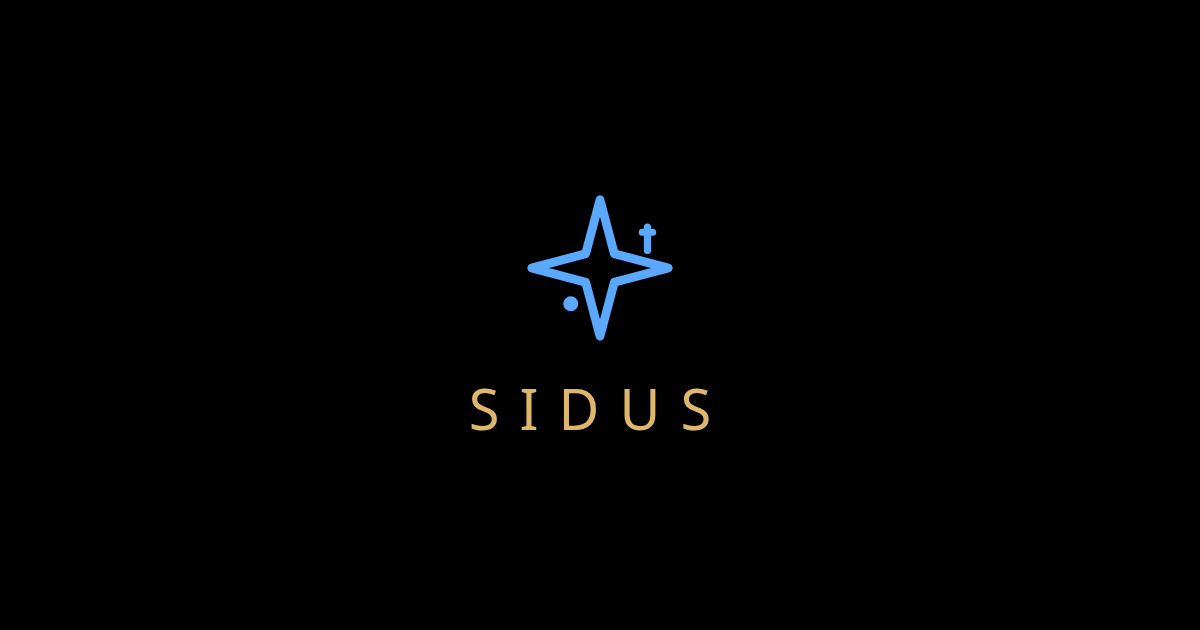
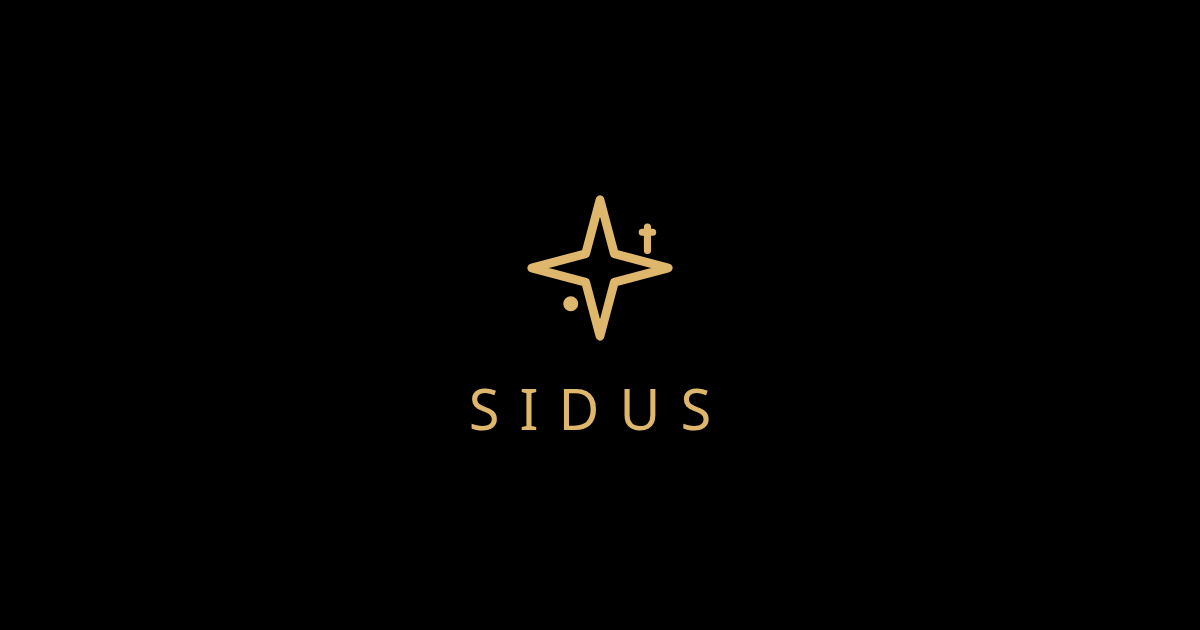
Corrige rasto cósmico mobile, estrela dourada e efeito touch suave
- Canvas do trail passa para z-index 1 dentro do shell cósmico (atrás do conteúdo)
- Remove explosão no toque; rasto suave de poeira cósmica ao deslizar o dedo
- Estrela da marca em dourado #DFB76C (igual ao texto SIDUS) em favicon/OG/icons
- Regenera PNGs e bump og-image?v=4 + service worker v35

Changed region(s): [[0.4317, 0.3016, 0.555, 0.5429]]

diff --git a/src/components/MagicCursorTrail.jsx b/src/components/MagicCursorTrail.jsx
@@ -14,21 +14,34 @@ function colorFor(tint, alpha) {
   return rgba(GOLD, alpha)
 }
 
-function pushPointerParticle(particulas, x, y, { burst = false } = {}) {
-  const count = burst ? 8 : 1
+function pushDesktopTrail(particulas, x, y) {
+  particulas.push({
+    kind: 'pointer',
+    x: x + (Math.random() - 0.5) * 5,
+    y: y + (Math.random() - 0.5) * 5,
+    vx: 0,
+    vy: 0,
+    life: 1,
+    decay: 0.044,
+    size: 1.4 + Math.random() * 2.6,
+    tint: Math.random() > 0.7 ? 'purple' : 'gold',
+  })
+}
+
+/** Rasto suave de poeira cósmica (varinha) — mobile */
+function pushWandDust(particulas, x, y) {
+  const count = 2 + Math.floor(Math.random() * 2)
   for (let i = 0; i < count; i += 1) {
-    const angle = burst ? (Math.PI * 2 * i) / count + Math.random() * 0.35 : 0
-    const speed = burst ? 1.4 + Math.random() * 2.2 : 0
     particulas.push({
-      kind: burst ? 'burst' : 'pointer',
-      x: x + (burst ? 0 : (Math.random() - 0.5) * 5),
-      y: y + (burst ? 0 : (Math.random() - 0.5) * 5),
-      vx: burst ? Math.cos(angle) * speed : 0,
-      vy: burst ? Math.sin(angle) * speed : 0,
+      kind: 'wand',
+      x: x + (Math.random() - 0.5) * 14,
+      y: y + (Math.random() - 0.5) * 14,
+      vx: (Math.random() - 0.5) * 0.28,
+      vy: -0.18 - Math.random() * 0.38,
       life: 1,
-      decay: burst ? 0.036 : 0.044,
-      size: burst ? 1.6 + Math.random() * 2.4 : 1.4 + Math.random() * 2.6,
-      tint: Math.random() > 0.7 ? 'purple' : 'gold',
+      decay: 0.014 + Math.random() * 0.01,
+      size: 0.45 + Math.random() * 1.1,
+      tint: Math.random() > 0.72 ? 'gold' : Math.random() > 0.45 ? 'white' : 'purple',
     })
   }
 }
@@ -51,30 +64,33 @@ function seedAmbient(w, h, count) {
 }
 
 /**
- * Efeitos cósmicos Sidus — site inteiro:
+ * Efeitos cósmicos Sidus — site inteiro, sempre atrás do conteúdo:
  * - Desktop: rasto dourado/roxo ao mover o rato
- * - Mobile: rasto ao dedo + explosão ao tocar + poeira ambiente
+ * - Mobile: rasto suave de poeira cósmica ao deslizar o dedo
  */
 export function MagicCursorTrail({ activo = true }) {
   useEffect(() => {
     if (!activo || typeof window === 'undefined') return undefined
     if (window.matchMedia('(prefers-reduced-motion: reduce)').matches) return undefined
 
+    const shell = document.querySelector('.sidus-cosmic-shell')
+    if (!shell) return undefined
+
     const coarse = window.matchMedia('(pointer: coarse)').matches
-    const pointerMax = coarse ? 34 : 48
-    const ambientCount = coarse ? 26 : 18
+    const pointerMax = coarse ? 42 : 48
+    const ambientCount = coarse ? 20 : 18
 
     const particulas = []
     let ambients = []
     let w = window.innerWidth
     let h = window.innerHeight
     let visible = true
+    let lastTouchSpawn = 0
 
     const canvas = document.createElement('canvas')
     canvas.className = 'magic-cosmic-trail-canvas'
     canvas.setAttribute('aria-hidden', 'true')
-    canvas.style.cssText = 'position:fixed;inset:0;pointer-events:none;z-index:9998;width:100%;height:100%;'
-    document.body.appendChild(canvas)
+    shell.appendChild(canvas)
 
     const ctx = canvas.getContext('2d', { alpha: true })
     if (!ctx) {
@@ -94,22 +110,17 @@ export function MagicCursorTrail({ activo = true }) {
     resize()
 
     const onMove = (e) => {
-      pushPointerParticle(particulas, e.clientX, e.clientY)
+      pushDesktopTrail(particulas, e.clientX, e.clientY)
       trimPointerParticles(particulas, pointerMax)
     }
 
     const onTouchMove = (e) => {
+      const now = performance.now()
+      if (now - lastTouchSpawn < 28) return
+      lastTouchSpawn = now
       for (let i = 0; i < e.touches.length; i += 1) {
         const t = e.touches[i]
-        pushPointerParticle(particulas, t.clientX, t.clientY)
-      }
-      trimPointerParticles(particulas, pointerMax)
-    }
-
-    const onTouchStart = (e) => {
-      for (let i = 0; i < e.changedTouches.length; i += 1) {
-        const t = e.changedTouches[i]
-        pushPointerParticle(particulas, t.clientX, t.clientY, { burst: true })
+        pushWandDust(particulas, t.clientX, t.clientY)
       }
       trimPointerParticles(particulas, pointerMax)
     }
@@ -131,33 +142,42 @@ export function MagicCursorTrail({ activo = true }) {
         const tw = 0.5 + 0.5 * Math.sin(now * 0.0014 + p.pulse)
         ctx.beginPath()
         ctx.arc(p.x, p.y, p.size * tw, 0, Math.PI * 2)
-        ctx.fillStyle = colorFor(p.tint, 0.22 * tw)
+        ctx.fillStyle = colorFor(p.tint, (coarse ? 0.16 : 0.22) * tw)
         ctx.fill()
       }
 
       for (let i = particulas.length - 1; i >= 0; i -= 1) {
         const p = particulas[i]
         p.life -= p.decay
-        if (p.kind === 'burst') {
+        if (p.kind === 'wand') {
           p.x += p.vx
           p.y += p.vy
-          p.vx *= 0.95
-          p.vy *= 0.95
+          p.vx *= 0.98
+          p.vy *= 0.98
         }
         if (p.life <= 0) {
           particulas.splice(i, 1)
           continue
         }
-        const alpha = p.kind === 'burst' ? p.life * 0.72 : p.life * 0.78
-        const radius = p.size * p.life
+
+        const isWand = p.kind === 'wand'
+        const alpha = isWand ? p.life * 0.42 : p.life * 0.78
+        const radius = p.size * (isWand ? 0.55 + p.life * 0.45 : p.life)
+
         ctx.beginPath()
         ctx.arc(p.x, p.y, radius, 0, Math.PI * 2)
         ctx.fillStyle = colorFor(p.tint, alpha)
         ctx.fill()
-        if (p.life > 0.45) {
+
+        if (!isWand && p.life > 0.45) {
           ctx.beginPath()
           ctx.arc(p.x, p.y, radius * 2.4, 0, Math.PI * 2)
           ctx.fillStyle = colorFor(p.tint, alpha * 0.14)
+          ctx.fill()
+        } else if (isWand && p.life > 0.35) {
+          ctx.beginPath()
+          ctx.arc(p.x, p.y, radius * 1.8, 0, Math.PI * 2)
+          ctx.fillStyle = colorFor(p.tint, alpha * 0.08)
           ctx.fill()
         }
       }
@@ -172,15 +192,9 @@ export function MagicCursorTrail({ activo = true }) {
     document.addEventListener('visibilitychange', onVisibility)
 
     if (coarse) {
-      window.addEventListener('touchstart', onTouchStart, { passive: true })
       window.addEventListener('touchmove', onTouchMove, { passive: true })
     } else {
       window.addEventListener('mousemove', onMove, { passive: true })
-    }
-
-    // Híbridos (Surface, etc.): rato + toque
-    if (!coarse) {
-      window.addEventListener('touchstart', onTouchStart, { passive: true })
       window.addEventListener('touchmove', onTouchMove, { passive: true })
     }
 
@@ -188,7 +202,6 @@ export function MagicCursorTrail({ activo = true }) {
       cancelAnimationFrame(raf)
       window.removeEventListener('resize', resize)
       window.removeEventListener('mousemove', onMove)
-      window.removeEventListener('touchstart', onTouchStart)
       window.removeEventListener('touchmove', onTouchMove)
       document.removeEventListener('visibilitychange', onVisibility)
       canvas.remove()

diff --git a/index.html b/index.html
@@ -16,8 +16,8 @@
     <meta property="og:url" content="https://sidusastro.com/" />
     <meta property="og:title" content="Sidusastro - O Seu Guia Cósmico" />
     <meta property="og:description" content="Mapa astral, tarot, Chat Oráculo e ferramentas astrológicas. O teu guia cósmico com precisão astronómica." />
-    <meta property="og:image" content="https://sidusastro.com/og-image.png?v=3" />
-    <meta property="og:image:secure_url" content="https://sidusastro.com/og-image.png?v=3" />
+    <meta property="og:image" content="https://sidusastro.com/og-image.png?v=4" />
+    <meta property="og:image:secure_url" content="https://sidusastro.com/og-image.png?v=4" />
     <meta property="og:image:type" content="image/png" />
     <meta property="og:image:width" content="1200" />
     <meta property="og:image:height" content="630" />
@@ -26,7 +26,7 @@
     <meta name="twitter:card" content="summary_large_image" />
     <meta name="twitter:title" content="Sidusastro - O Seu Guia Cósmico" />
     <meta name="twitter:description" content="Mapa astral, tarot, Chat Oráculo e ferramentas astrológicas." />
-    <meta name="twitter:image" content="https://sidusastro.com/og-image.png?v=3" />
+    <meta name="twitter:image" content="https://sidusastro.com/og-image.png?v=4" />
     <meta name="twitter:image:alt" content="Sidus - estrela azul e logotipo SIDUS" />
 
   <!-- Google AdSense - site e guias editoriais (após consentimento cookies) -->

diff --git a/public/guia/signos-zodiaco.html b/public/guia/signos-zodiaco.html
@@ -11,13 +11,13 @@
   <meta property="og:url" content="https://sidusastro.com/guia/signos-zodiaco.html" />
   <meta property="og:title" content="Os 12 Signos do Zodíaco - Guia Completo | Sidus" />
   <meta property="og:description" content="Os 12 signos do zodíaco explicados: elementos (fogo, terra, ar, água), modalidades (cardinal, fixo, mutável) e características de cada signo." />
-  <meta property="og:image" content="https://sidusastro.com/og-image.png?v=3" />
-  <meta property="og:image:secure_url" content="https://sidusastro.com/og-image.png?v=3" />
+  <meta property="og:image" content="https://sidusastro.com/og-image.png?v=4" />
+  <meta property="og:image:secure_url" content="https://sidusastro.com/og-image.png?v=4" />
   <meta property="og:image:type" content="image/png" />
   <meta property="og:image:width" content="1200" />
   <meta property="og:image:height" content="630" />
   <meta name="twitter:card" content="summary_large_image" />
-  <meta name="twitter:image" content="https://sidusastro.com/og-image.png?v=3" />
+  <meta name="twitter:image" content="https://sidusastro.com/og-image.png?v=4" />
   <link rel="icon" type="image/svg+xml" href="/favicon.svg?v=3" />
   <link rel="apple-touch-icon" href="/apple-touch-icon.png?v=3" />
   <link rel="stylesheet" href="/guia/guia.css?v=20260717f" />

diff --git a/public/guia/mapa-astral.html b/public/guia/mapa-astral.html
@@ -11,13 +11,13 @@
   <meta property="og:url" content="https://sidusastro.com/guia/mapa-astral.html" />
   <meta property="og:title" content="O que é um Mapa Astral? Guia Completo | Sidus" />
   <meta property="og:description" content="Guia completo sobre mapa astral: o que é, como é calculado, planetas, casas Placidus, aspectos e como interpretar o teu mapa natal com precisão." />
-  <meta property="og:image" content="https://sidusastro.com/og-image.png?v=3" />
-  <meta property="og:image:secure_url" content="https://sidusastro.com/og-image.png?v=3" />
+  <meta property="og:image" content="https://sidusastro.com/og-image.png?v=4" />
+  <meta property="og:image:secure_url" content="https://sidusastro.com/og-image.png?v=4" />
   <meta property="og:image:type" content="image/png" />
   <meta property="og:image:width" content="1200" />
   <meta property="og:image:height" content="630" />
   <meta name="twitter:card" content="summary_large_image" />
-  <meta name="twitter:image" content="https://sidusastro.com/og-image.png?v=3" />
+  <meta name="twitter:image" content="https://sidusastro.com/og-image.png?v=4" />
   <link rel="icon" type="image/svg+xml" href="/favicon.svg?v=3" />
   <link rel="apple-touch-icon" href="/apple-touch-icon.png?v=3" />
   <link rel="stylesheet" href="/guia/guia.css?v=20260717f" />

diff --git a/public/guia/ascendente.html b/public/guia/ascendente.html
@@ -11,13 +11,13 @@
   <meta property="og:url" content="https://sidusastro.com/guia/ascendente.html" />
   <meta property="og:title" content="Guia do Ascendente Astrológico | Sidus" />
   <meta property="og:description" content="Guia do ascendente astrológico: o que é, como calcular, diferença para o signo solar e por que a hora de nascimento é essencial no mapa natal." />
-  <meta property="og:image" content="https://sidusastro.com/og-image.png?v=3" />
-  <meta property="og:image:secure_url" content="https://sidusastro.com/og-image.png?v=3" />
+  <meta property="og:image" content="https://sidusastro.com/og-image.png?v=4" />
+  <meta property="og:image:secure_url" content="https://sidusastro.com/og-image.png?v=4" />
   <meta property="og:image:type" content="image/png" />
   <meta property="og:image:width" content="1200" />
   <meta property="og:image:height" content="630" />
   <meta name="twitter:card" content="summary_large_image" />
-  <meta name="twitter:image" content="https://sidusastro.com/og-image.png?v=3" />
+  <meta name="twitter:image" content="https://sidusastro.com/og-image.png?v=4" />
   <link rel="icon" type="image/svg+xml" href="/favicon.svg?v=3" />
   <link rel="apple-touch-icon" href="/apple-touch-icon.png?v=3" />
   <link rel="stylesheet" href="/guia/guia.css?v=20260717f" />

diff --git a/public/guia/tarot-guia.html b/public/guia/tarot-guia.html
@@ -11,13 +11,13 @@
   <meta property="og:url" content="https://sidusastro.com/guia/tarot-guia.html" />
   <meta property="og:title" content="Tarot e Astrologia - Guia | Sidus" />
   <meta property="og:description" content="Como o tarot se relaciona com a astrologia: arcanos maiores, leitura diária, sinastria simbólica e uso responsável do tarot online." />
-  <meta property="og:image" content="https://sidusastro.com/og-image.png?v=3" />
-  <meta property="og:image:secure_url" content="https://sidusastro.com/og-image.png?v=3" />
+  <meta property="og:image" content="https://sidusastro.com/og-image.png?v=4" />
+  <meta property="og:image:secure_url" content="https://sidusastro.com/og-image.png?v=4" />
   <meta property="og:image:type" content="image/png" />
   <meta property="og:image:width" content="1200" />
   <meta property="og:image:height" content="630" />
   <meta name="twitter:card" content="summary_large_image" />
-  <meta name="twitter:image" content="https://sidusastro.com/og-image.png?v=3" />
+  <meta name="twitter:image" content="https://sidusastro.com/og-image.png?v=4" />
   <link rel="icon" type="image/svg+xml" href="/favicon.svg?v=3" />
   <link rel="apple-touch-icon" href="/apple-touch-icon.png?v=3" />
   <link rel="stylesheet" href="/guia/guia.css?v=20260717f" />

diff --git a/public/privacy.html b/public/privacy.html
@@ -10,11 +10,11 @@
   <meta property="og:url" content="https://sidusastro.com/privacy.html" />
   <meta property="og:title" content="Política de Privacidade - SidusAstro" />
   <meta property="og:description" content="Política de Privacidade do SidusAstro - sidusastro.com. RGPD, cookies, Google AdSense e tratamento de dados astrológicos." />
-  <meta property="og:image" content="https://sidusastro.com/og-image.png?v=3" />
-  <meta property="og:image:secure_url" content="https://sidusastro.com/og-image.png?v=3" />
+  <meta property="og:image" content="https://sidusastro.com/og-image.png?v=4" />
+  <meta property="og:image:secure_url" content="https://sidusastro.com/og-image.png?v=4" />
   <meta property="og:image:type" content="image/png" />
   <meta name="twitter:card" content="summary_large_image" />
-  <meta name="twitter:image" content="https://sidusastro.com/og-image.png?v=3" />
+  <meta name="twitter:image" content="https://sidusastro.com/og-image.png?v=4" />
   <link rel="icon" type="image/svg+xml" href="/favicon.svg?v=3" />
   <link rel="apple-touch-icon" href="/apple-touch-icon.png?v=3" />
   <title>Política de Privacidade - SidusAstro</title>

diff --git a/public/guia/guia-shared.js b/public/guia/guia-shared.js
@@ -437,7 +437,7 @@
   }
 
   function applyShareMeta({ title, description, url, type = 'article', locale = 'pt_PT' }) {
-    const image = `${window.location.origin}/og-image.png?v=3`
+    const image = `${window.location.origin}/og-image.png?v=4`
     upsertMeta('property', 'og:type', type)
     upsertMeta('property', 'og:site_name', 'Sidusastro')
     upsertMeta('property', 'og:locale', locale)

diff --git a/src/index.css b/src/index.css
@@ -1857,6 +1857,16 @@ h1.sidus-page-title {
   min-height: 100svh;
 }
 
+/* Rasto cósmico — fixo atrás do conteúdo, à frente do fundo estrelado */
+.magic-cosmic-trail-canvas {
+  position: fixed;
+  inset: 0;
+  z-index: 1;
+  width: 100%;
+  height: 100%;
+  pointer-events: none;
+}
+
 .sidus-login-shell {
   width: 100% !important;
   max-width: 100% !important;

diff --git a/src/lib/socialShare.js b/src/lib/socialShare.js
@@ -1,5 +1,5 @@
 /** Imagem partilhada em WhatsApp, Telegram, iMessage, X, LinkedIn, Discord, Slack, etc. */
-export const SOCIAL_SHARE_IMAGE = 'https://sidusastro.com/og-image.png?v=3'
+export const SOCIAL_SHARE_IMAGE = 'https://sidusastro.com/og-image.png?v=4'
 
 function setMeta(attr, key, value) {
   if (!value) return

diff --git a/public/sw.js b/public/sw.js
@@ -1,6 +1,6 @@
 // Service Worker para notificações PWA - Sidus Astro
 // v19: efeitos cósmicos site inteiro (desktop + mobile)
-const CACHE_NAME = 'sidusastro-v34'
+const CACHE_NAME = 'sidusastro-v35'
 const OFFLINE_URLS = ['/manifest.json', '/favicon.svg']
 
 const SIGNO_EMOJI = {
